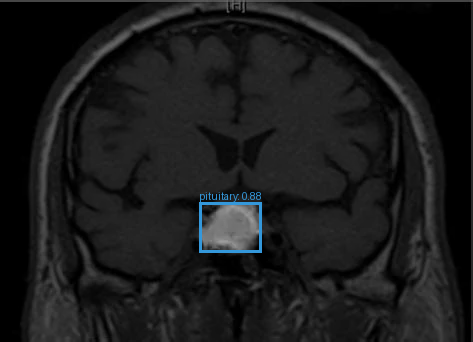
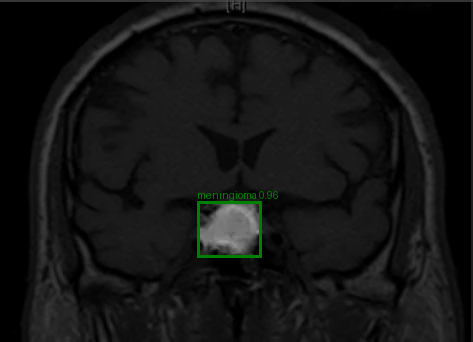
updated training script

Changed region(s): [[0.4144, 0.5556, 0.592, 0.7602]]

diff --git a/use_img.py b/use_img.py
@@ -4,56 +4,84 @@ import torchvision
 from torchvision.transforms import functional as F
 from PIL import Image, ImageDraw
 
-MODEL_PATH = "models/bt_fasterrcnn_best.pth"
-IMAGE_PATH = "images/pit2.jpg"
+MODEL_PATH = "models/fasterrcnn_best.pth"
+IMAGE_PATH = "images/gli2.jpg"
 THRESHOLD = 0.6
-NUM_CLASSES = 4
-CLASS_NAMES = {0: "background", 1: "glioma", 2: "meningioma", 3: "pituitary"}
+
+NUM_CLASSES = 4  # 0: background + 3 classes
+CLASS_NAMES = {
+    0: "background",
+    1: "glioma",
+    2: "meningioma",
+    3: "pituitary"
+}
+
+COLOR_MAP = {
+    1: "red",        # glioma
+    2: "green",      # meningioma
+    3: "blue"        # pituitary
+}
 
 def load_model(checkpoint_path, num_classes):
-    # Recreate the exact same architecture
-    model = torchvision.models.detection.fasterrcnn_resnet50_fpn(weights=None)
+    model = torchvision.models.detection.fasterrcnn_resnet50_fpn(
+        weights=None, 
+        min_size=800, 
+        max_size=1333
+    )
     in_features = model.roi_heads.box_predictor.cls_score.in_features
     model.roi_heads.box_predictor = torchvision.models.detection.faster_rcnn.FastRCNNPredictor(in_features, num_classes)
     
-    # Load the state dict (weights)
-    model.load_state_dict(torch.load(checkpoint_path))
-    model.to('cuda' if torch.cuda.is_available() else 'cpu')
+    # Safe state dict loading
+    device = 'cuda' if torch.cuda.is_available() else 'cpu'
+    state_dict = torch.load(checkpoint_path, map_location=device, weights_only=True)
+    model.load_state_dict(state_dict)
+    
+    model.to(device)
     model.eval()
     return model
 
+# Load Model
+device = 'cuda' if torch.cuda.is_available() else 'cpu'
 model = load_model(MODEL_PATH, NUM_CLASSES)
-img = Image.open(IMAGE_PATH).convert("RGB")
-img_tensor = F.to_tensor(img).unsqueeze(0).to(next(model.parameters()).device)
 
+# Load Image
+img = Image.open(IMAGE_PATH).convert("RGB")
+img_tensor = F.to_tensor(img).unsqueeze(0).to(device)
+
+# Prediction
 with torch.no_grad():
     prediction = model(img_tensor)[0]
 
+# Draw Detections
 faded_img = Image.eval(img, lambda x: int(x * 0.3))
 draw = ImageDraw.Draw(faded_img)
-COLOR_MAP = {
-    1: "red",      # glioma
-    2: "green",    # meningioma
-    3: "blue"      # pituitary
-}
 
-print(prediction)
-
+detected_count = 0
 for i in range(len(prediction['boxes'])):
     score = prediction['scores'][i].item()
     if score > THRESHOLD:
+        detected_count += 1
         box = prediction['boxes'][i].cpu().numpy().astype(int)
         label_id = prediction['labels'][i].item()
+        
+        class_name = CLASS_NAMES.get(label_id, "Unknown")
         color = COLOR_MAP.get(label_id, "white")
         
         crop_box = (box[0], box[1], box[2], box[3])
         bright_patch = img.crop(crop_box)
         faded_img.paste(bright_patch, crop_box)
         
+        # Draw bounding box
         draw.rectangle(crop_box, outline=color, width=3)
+        
+        # Optional: Add text label above box
+        draw.text((box[0], max(0, box[1] - 12)), f"{class_name} {score:.2f}", fill=color)
 
 faded_img.show()
+
+# Save
 os.makedirs("results", exist_ok=True)
 img_name = os.path.splitext(os.path.basename(IMAGE_PATH))[0]
 faded_img.save(f"results/detection_result_{img_name}.png")
-print(f"Done! Found {sum(prediction['scores'] > THRESHOLD)} objects.")
+
+print(f"Done! Found {detected_count} object(s) above threshold {THRESHOLD}.")

diff --git a/train.py b/train.py
@@ -25,6 +25,27 @@ def get_transforms(is_train=True):
             ToTensorV2()
         ], bbox_params=A.BboxParams(format='pascal_voc', label_fields=['labels']))
 
+# Early Stopping Helper Class
+class EarlyStopping:
+    def __init__(self, patience=5, min_delta=0.001):
+        self.patience = patience
+        self.min_delta = min_delta
+        self.counter = 0
+        self.best_score = None
+        self.early_stop = False
+
+    def __call__(self, current_score):
+        if self.best_score is None:
+            self.best_score = current_score
+        elif current_score < self.best_score + self.min_delta:
+            self.counter += 1
+            print(f"--> EarlyStopping counter: {self.counter} out of {self.patience}")
+            if self.counter >= self.patience:
+                self.early_stop = True
+        else:
+            self.best_score = current_score
+            self.counter = 0
+
 # Dataset with Proper Contiguous Category Mapping
 class CocoDetection(Dataset):
     def __init__(self, root, annFile, transform=None, category_id_map=None):
@@ -87,15 +108,24 @@ class CocoDetection(Dataset):
 def collate_fn(batch):
     return tuple(zip(*batch))
 
-BATCH_SIZE = 8  # Reduced batch size for fine spatial resolution
+BATCH_SIZE = 8
 EPOCHS = 30
+PATIENCE = 3
 
 train_coco_raw = COCO('dataset/train/_annotations.coco.json')
-cat_ids = sorted(train_coco_raw.getCatIds())
+# Fetch categories and exclude any explicit 'background' category in the JSON
+cat_ids = [
+    cat['id'] for cat in train_coco_raw.loadCats(train_coco_raw.getCatIds()) 
+    if cat['name'].lower() != 'background' and cat['id'] > 0
+]
+cat_ids.sort()
 
-# Map arbitrary dataset IDs to contiguous 1..N indices (0 reserved for background)
+# Maps the 3 tumor classes to 1, 2, 3
 category_id_map = {orig_id: i + 1 for i, orig_id in enumerate(cat_ids)}
+
+# Exactly 3 + 1 = 4
 num_classes = len(category_id_map) + 1  
+print(f"Final Model num_classes: {num_classes}")
 
 train_dataset = CocoDetection('dataset/train', 'dataset/train/_annotations.coco.json', 
                               transform=get_transforms(is_train=True), category_id_map=category_id_map)
@@ -121,6 +151,7 @@ lr_scheduler = torch.optim.lr_scheduler.CosineAnnealingLR(optimizer, T_max=EPOCH
 use_bfloat16 = torch.cuda.is_bf16_supported()
 scaler = GradScaler(enabled=not use_bfloat16) 
 metric = MeanAveragePrecision(box_format='xyxy', class_metrics=False)
+early_stopper = EarlyStopping(patience=PATIENCE, min_delta=0.001)
 
 best_val_map = -1.0
 os.makedirs("models", exist_ok=True)
@@ -173,3 +204,8 @@ for epoch in range(EPOCHS):
         best_val_map = current_mAP
         torch.save(model.state_dict(), "models/fasterrcnn_best.pth")
         print(f"--> Saved New Best Model (mAP@50: {best_val_map:.4f})")
+    
+    early_stopper(current_mAP)
+    if early_stopper.early_stop:
+        print(f"\n[!] Early stopping triggered at Epoch {epoch}. Best mAP@50 reached: {best_val_map:.4f}")
+        break
